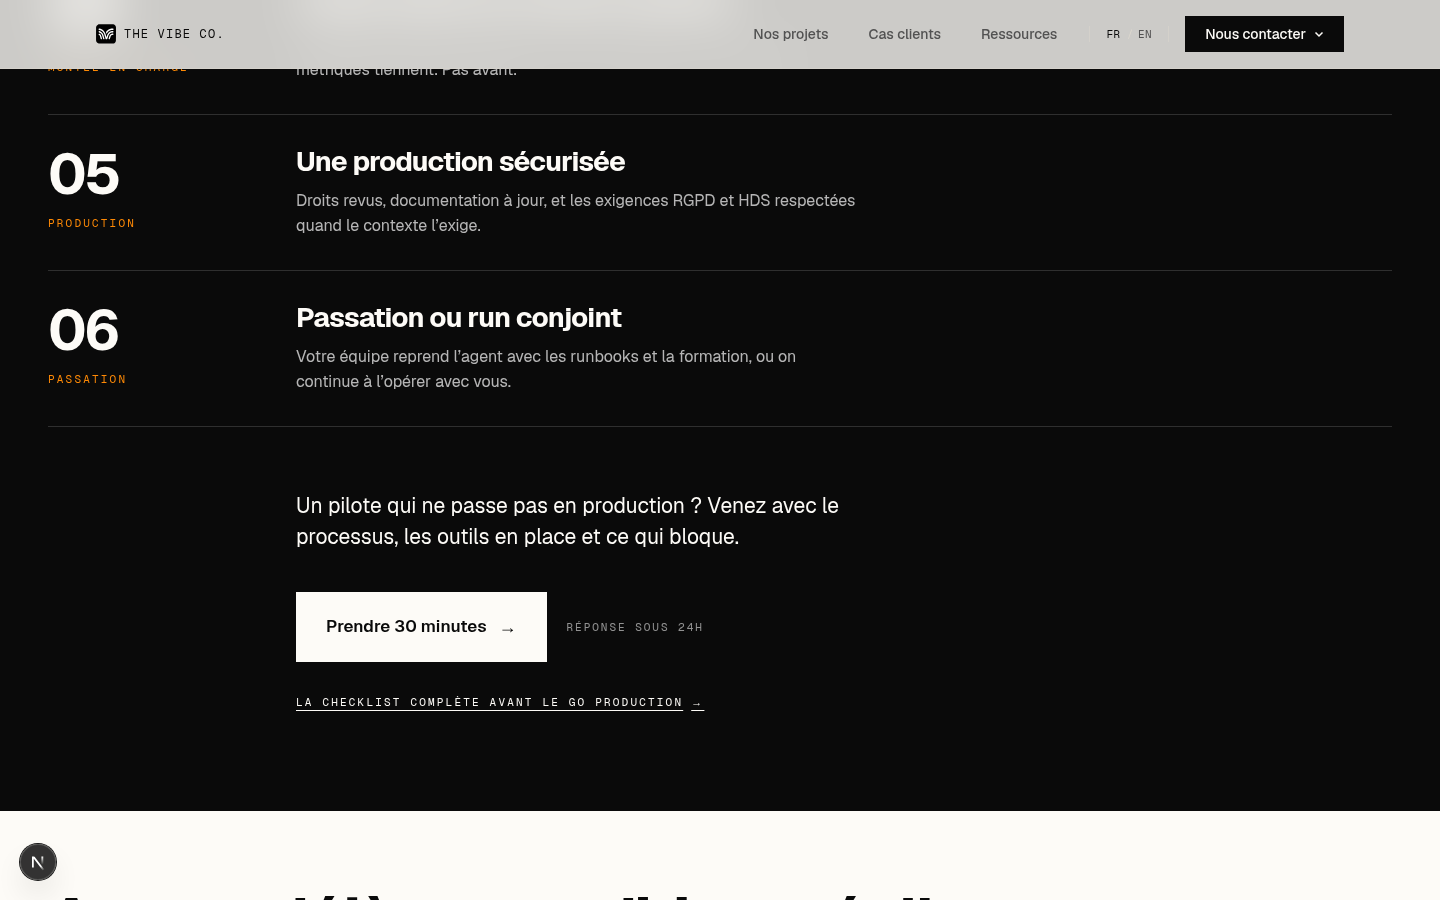
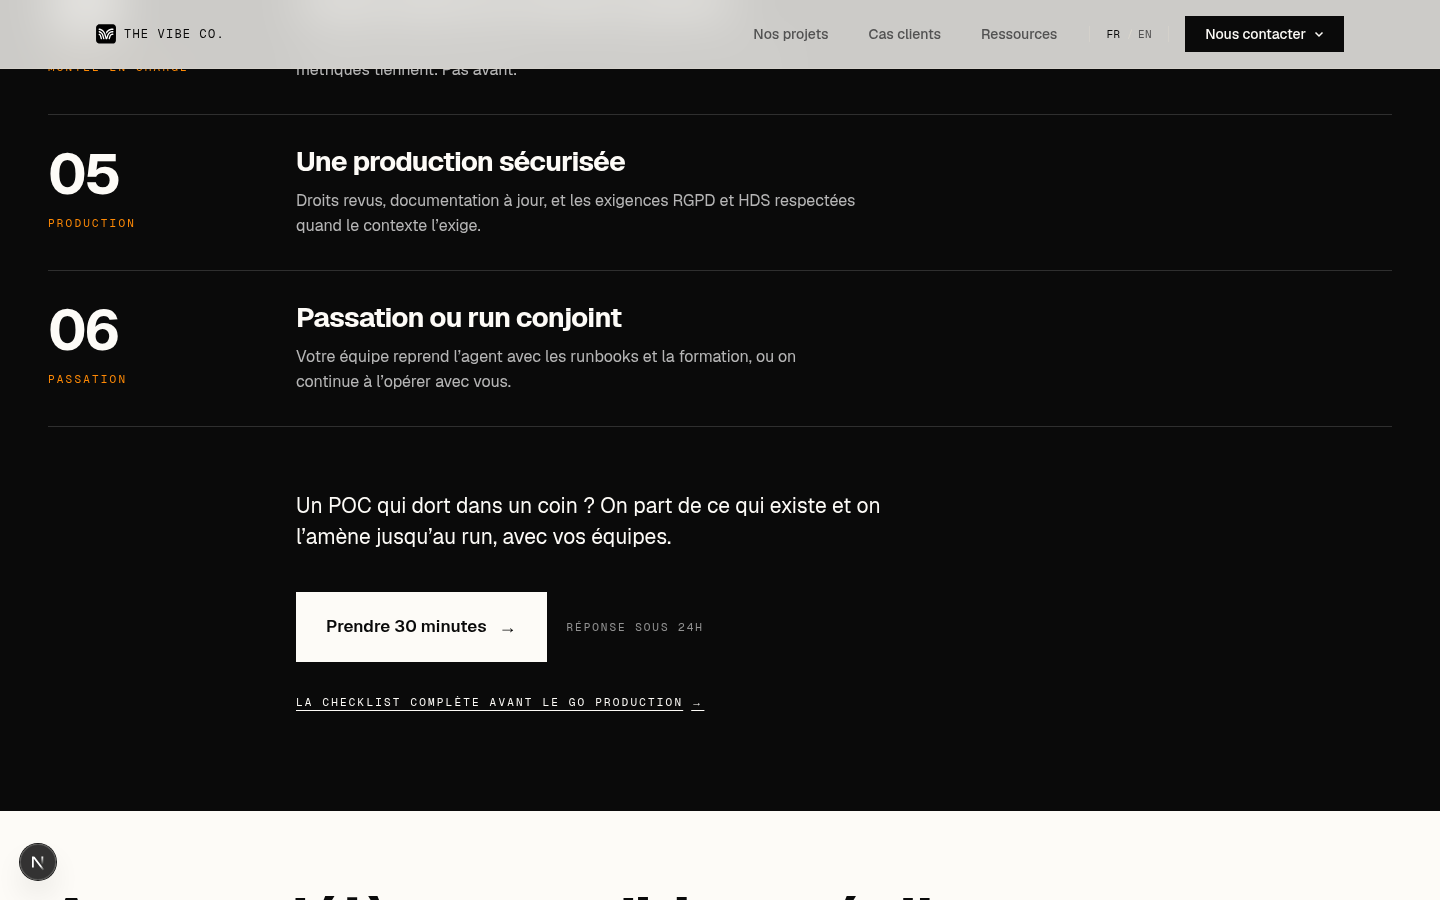
fix(seo): address review notes on the agents in production landing
- Rewrite the mid-page CTA and the call step in the landing's own words
  (they echoed the hub article's closing paragraph).
- Drop Monka from "Agents already running": its published case is an app,
  a CRM and a clinical engine, not an agent.
- Name the healthcare paths HEALTHCARE_AI_PATHS, matching the slugs of the
  healthcare landing PR (#267).

Changed region(s): [[0.1875, 0.5289, 0.5938, 0.6222]]

diff --git a/src/components/agents-production/AgentsProductionPage.tsx b/src/components/agents-production/AgentsProductionPage.tsx
@@ -27,7 +27,7 @@ import {
   AGENCY_PARIS_PATHS,
   AGENTS_PRODUCTION_PATHS,
   HARDENING_PATHS,
-  HEALTHCARE_HDS_PATHS,
+  HEALTHCARE_AI_PATHS,
   localizedSocialMetadata,
   localizedUrl,
   splitPath,
@@ -137,7 +137,7 @@ export async function AgentsProductionPage({ locale }: { locale: string }) {
       { label: t("faq.links.locservice"), href: "/case-studies/locservice", locale: pageLocale },
     ],
     data: [
-      { label: t("faq.links.health"), href: splitPath(HEALTHCARE_HDS_PATHS, locale), locale: pageLocale },
+      { label: t("faq.links.health"), href: splitPath(HEALTHCARE_AI_PATHS, locale), locale: pageLocale },
       { label: t("faq.links.hds"), href: hdsGuide, locale: pageLocale },
     ],
     article: [{ label: t("faq.links.guide"), href: guide, locale: pageLocale }],
@@ -160,7 +160,7 @@ export async function AgentsProductionPage({ locale }: { locale: string }) {
   const siblings = [
     { key: "hardening", href: hardening },
     { key: "agency", href: splitPath(AGENCY_PARIS_PATHS, locale) },
-    { key: "health", href: splitPath(HEALTHCARE_HDS_PATHS, locale) },
+    { key: "health", href: splitPath(HEALTHCARE_AI_PATHS, locale) },
   ] as const;
 
   return (
@@ -395,7 +395,7 @@ export async function AgentsProductionPage({ locale }: { locale: string }) {
             </article>
           ) : null}
 
-          <div className="mt-5 grid grid-cols-1 gap-5 md:grid-cols-3">
+          <div className="mt-5 grid grid-cols-1 gap-5 md:grid-cols-2">
             {others.map((customer) => (
               <article
                 key={customer.slug}

diff --git a/src/lib/agents-production.ts b/src/lib/agents-production.ts
@@ -36,13 +36,12 @@ export const AGENTS_PRODUCTION_METHOD_STEPS = [
   { n: "06", key: "handover" },
 ] as const;
 
-/** Case studies cited as proof, all live under /case-studies/<slug>. */
-export const AGENTS_PRODUCTION_CASE_SLUGS = [
-  "locservice",
-  "coup-de-pates",
-  "monka",
-  "theodo",
-] as const;
+/**
+ * Case studies cited as proof, all live under /case-studies/<slug>. Only the
+ * ones where an agent or skills actually run: Monka (an app, a CRM and a
+ * clinical engine) stays out of this list.
+ */
+export const AGENTS_PRODUCTION_CASE_SLUGS = ["locservice", "coup-de-pates", "theodo"] as const;
 
 /** What the offer is not, to set expectations. */
 export const AGENTS_PRODUCTION_NOT_KEYS = ["chatbot", "replace", "hardening", "promise"] as const;

diff --git a/src/lib/site.ts b/src/lib/site.ts
@@ -62,10 +62,10 @@ export const AGENTS_PRODUCTION_PATHS: SplitPaths = {
 };
 
 /**
- * The healthcare landing (AI on health data, HDS). Linked before its own PR
- * lands, so the link 404s until then.
+ * The healthcare AI landing (AI on health data, HDS), same slugs as its own
+ * PR (#267). Linked before that PR lands, so the link 404s until then.
  */
-export const HEALTHCARE_HDS_PATHS: SplitPaths = {
+export const HEALTHCARE_AI_PATHS: SplitPaths = {
   fr: "/ia-sante-hds",
   en: "/healthcare-ai-hds",
 };
